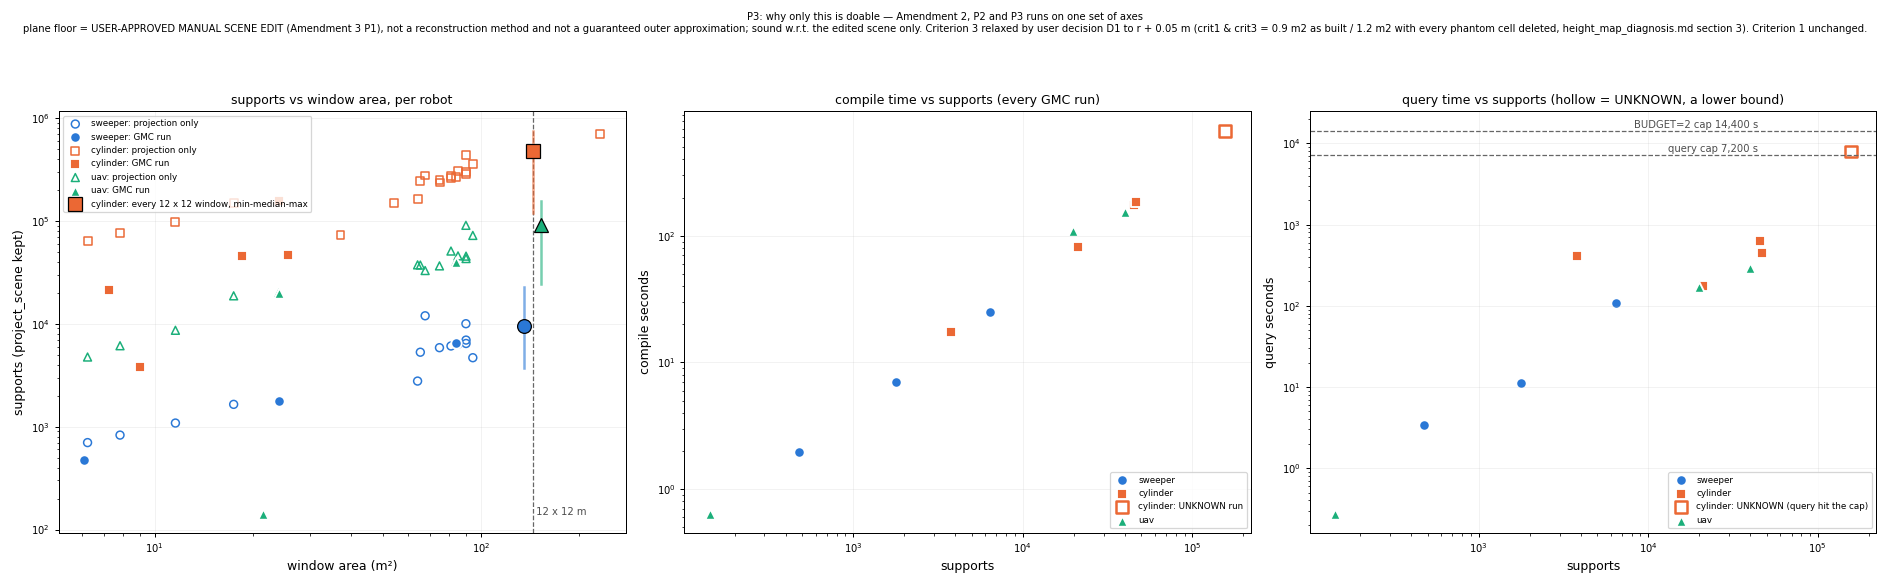
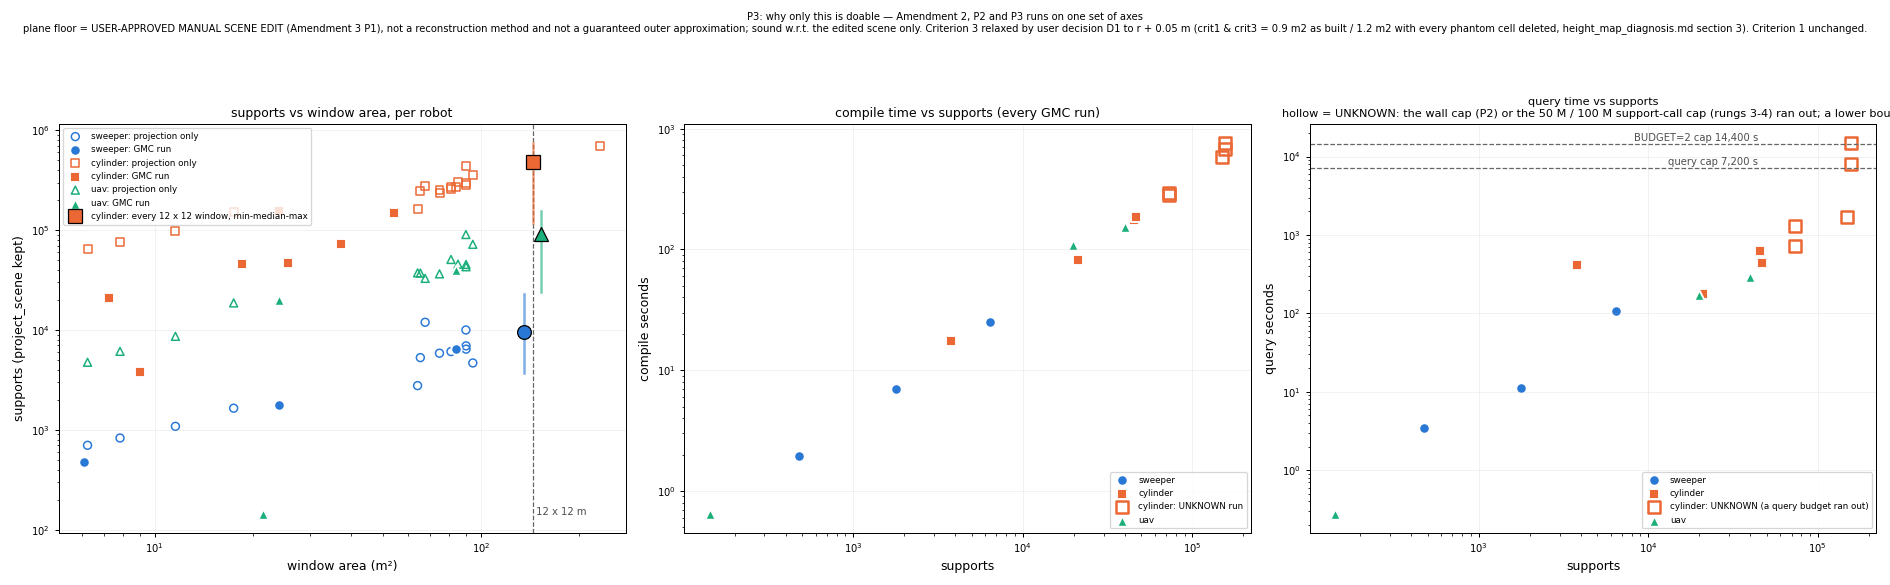
[height P3e] Why only this is doable, final for the ladder, and the short-vs-long table
Cylinder: certified to 5.45 m (46,835 supports); every map >= 73 k ran out of a query budget (support
calls at 73 k / 149 k, wall at 156 k), doubling the budget rescued neither. Compile is linear at
4.3 ms/support over 9 runs; no query fit is predictive (all 5 UNKNOWN runs contradict it). Every
12 x 12 window holds >= 119 k cylinder supports.

diff --git a/gmc/experiments/plane_long_search.py b/gmc/experiments/plane_long_search.py
@@ -681,7 +681,7 @@ def step_report(args):
             if bad:
                 ax.scatter([r["supports"] for r in bad], [r[key] for r in bad], s=90, marker=MARKERS[k],
                            facecolors="none", edgecolors=COLORS[k], lw=2,
-                           label=f"{k}: UNKNOWN (query hit the cap)" if key == "query_s" else f"{k}: UNKNOWN run")
+                           label=f"{k}: UNKNOWN (a query budget ran out)" if key == "query_s" else f"{k}: UNKNOWN run")
     for ax in axs:
         ax.set_xscale("log")
         ax.set_yscale("log")
@@ -705,7 +705,7 @@ def step_report(args):
     for cap, lbl in ((QUERY_CAP_S, "query cap 7,200 s"), (2 * QUERY_CAP_S, "BUDGET=2 cap 14,400 s")):
         axs[2].axhline(cap, color="0.4", ls="--", lw=1)
         axs[2].text(axs[2].get_xlim()[1] / 5.0, cap * 1.08, lbl, fontsize=8, color="0.3", ha="right")
-    axs[2].set_title("query time vs supports (hollow = UNKNOWN, a lower bound)", fontsize=10)
+    axs[2].set_title("query time vs supports\nhollow = UNKNOWN: the wall cap (P2) or the 50 M / 100 M support-call cap (rungs 3-4) ran out; a lower bound", fontsize=9)
     axs[0].legend(fontsize=7, loc="upper left")
     axs[1].legend(fontsize=7, loc="lower right")
     axs[2].legend(fontsize=7, loc="lower right")

diff --git a/docs/worklog/height_planefloor.md b/docs/worklog/height_planefloor.md
@@ -516,66 +516,111 @@ robots, config, `verify_curve`, `replay3d` untouched.
   queried for 409 s: supports bound the compile, not the query.
 - Submitted **rung 3** (17949914, 6.90 m, 73,178 supports, 1 CPU / 10 G / 3 h).
 
-### P3 — why only this is doable, in numbers (INTERIM, as of 15:5x: rungs 3–6 pending)
+### P3 — why only this is doable, in numbers (FINAL for the ladder; 2026-09-18 ~20:4x)
 
 Generated by `plane_long_search.py --step report` → `results/height/plane/long/p3_report.json` and
-`figs/p3_scaling.png` (opened; three log-log panels, one y-axis each). Every support count below is
-`project_scene`'s `kept`.
+`figs/p3_scaling.png`. I opened the figure: three log-log panels, one y-axis each. Hollow markers are
+UNKNOWN runs, whose time is a lower bound. Every support count is `project_scene`'s `kept`.
 
-**1. Supports vs window area, per robot.** Filled rows are GMC runs; "projection" rows were never run.
+**1. Supports vs window area, per robot.**
 
 | source | robot | window m² | supports | sup/m² |
 |---|---|---|---|---|
-| A2 | sweeper / cylinder / uav | 6.1 / 9.0 / 21.5 | 477 / 3,791 / 143 | 78 / 421 / 7 |
-| P2 shared | sweeper / cylinder / uav | 24.1 | 1,779 / **156,426** / 19,867 | 74 / **6,496** / 825 |
+| A2 (run) | sweeper / cylinder / uav | 6.1 / 9.0 / 21.5 | 477 / 3,791 / 143 | 78 / 421 / 7 |
+| P2 shared (run) | sweeper / cylinder / uav | 24.1 | 1,779 / **156,426** / 19,867 | 74 / **6,496** / 825 |
 | P2 shrink series, smallest (projection) | cylinder | 6.2 | 64,294 | 10,300 |
-| **P3 long** | sweeper / uav (cylinder: projection) | 83.9 | **6,436 / 39,834** / 269,036 | 77 / 475 / 3,205 |
-| P3 rungs 0 / 1 / 2 | cylinder | 7.2 / 18.5 / 25.6 | 21,144 / 45,572 / 46,835 | 2,917 / 2,462 / 1,828 |
-| P3 rungs 3 / 4 / 5 / 6 (projection until run) | cylinder | 37.2 / 54.2 / 75.1 / 81.1 | 73,178 / 149,303 / 235,620 / 259,588 | 1,970 / 2,755 / 3,139 / 3,200 |
-| **every 12 × 12 window below y = 32** (1,204, 0.5 m step; min / median / max) | sweeper | 144 | 3,745 / 9,444 / 22,737 | 26 / 66 / 158 |
+| **P3 long (run; cylinder projection only)** | sweeper / uav / cylinder | 83.9 | **6,436 / 39,834** / 269,036 | 77 / 475 / 3,205 |
+| P3 rungs 0 / 1 / 2 (run, certified) | cylinder | 7.2 / 18.5 / 25.6 | 21,144 / 45,572 / 46,835 | 2,917 / 2,462 / 1,828 |
+| P3 rungs 3 / 4 (run, UNKNOWN) | cylinder | 37.2 / 54.2 | 73,178 / 149,303 | 1,970 / 2,755 |
+| P3 rungs 5 / 6 (projection, not run) | cylinder | 75.1 / 81.1 | 235,620 / 259,588 | 3,139 / 3,200 |
+| **every 12 × 12 window below y = 32** (1,204 of them, 0.5 m step; min / median / max) | sweeper | 144 | 3,745 / 9,444 / 22,737 | 26 / 66 / 158 |
 | same | uav | 144 | 24,278 / 91,889 / 154,200 | 169 / 638 / 1,071 |
 | same | **cylinder** | 144 | **118,856 / 477,726 / 752,899** | 825 / 3,318 / 5,228 |
 
-The 12 × 12 row counts shadow centres on the 0.5 m density grid, so it slightly under-counts `kept`
-(the r-dilated rim is omitted). **The cheapest 12 × 12 window anywhere in the hall holds 76 % of P2's
-156 k-support map, and the median one 3×.** The prompt's "~900 k" (6,500/m² × 144) is P2's density
-applied to the whole window. Measured, the densest 12 × 12 window holds 753 k.
+The 12 × 12 row is summed from the 0.5 m density grid by shadow centre, so it under-counts `kept`
+slightly: the r-dilated rim is left out. **The cheapest 12 × 12 window in the hall holds 76 % of P2's
+156 k-support map and 1.6× rung 3's 73 k map, which is the smallest cylinder map that did not certify.**
+The median window holds 3× P2's map. The prompt's "~900 k" is P2's 6,500/m² applied to the whole window.
+Measured, the densest window holds 753 k.
 
-**2. Compile and query per run, against the 7,200 s query cap.**
+**2. Compile and query per cylinder run, against the caps.** The config allows 7,200 s of query and
+50,000,000 support calls; `BUDGET=2` doubles both.
 
-| run | robot | dist m | supports | compile s | query s | verify s | status | replay3d lb m |
+| run | sep m | supports | compile s | query s | status | which cap | MaxRSS |
+|---|---|---|---|---|---|---|---|
+| A2 | 2.69 | 3,791 | 17.3 | 409.4 | certified | — | — |
+| P3 rung 0 | 2.43 | 21,144 | 81.0 | 174.8 | certified | — | 2.24 GB |
+| P3 rung 1 | 4.00 | 45,572 | 174.7 | 628.8 | certified | — | 3.22 GB |
+| P3 rung 2 | 5.45 | 46,835 | 185.0 | 445.0 | **certified** | — | 2.30 GB |
+| P3 rung 3 | 6.90 | 73,178 | 283.9 | ≥ 722.5 | UNKNOWN | 50 M support calls | 3.37 GB |
+| P3 rung 3, `BUDGET=2` | 6.90 | 73,178 | 293.8 | ≥ 1,289.0 | UNKNOWN | 100 M support calls | 4.52 GB |
+| P3 rung 4 | 8.58 | 149,303 | 581.0 | ≥ 1,713.9 | UNKNOWN | 50 M support calls | 4.34 GB |
+| P2 shared | 2.36 | 156,426 | 675.7 | ≥ 7,968.1 | UNKNOWN | 7,200 s wall | 14.2 GB |
+| P2 shared, `BUDGET=2` | 2.36 | 156,426 | 766.4 | ≥ 15,026.8 | UNKNOWN | 14,400 s wall | (P2's job) |
+
+Sweeper and uav, same caps: the long runs used 107.5 s and 292.9 s of the 7,200 s query budget. None of
+their runs came near either cap.
+
+**3. The cylinder at 12 × 12.**
+- **Compile, fitted on 9 runs** (3,791–156,426 supports; UNKNOWN runs included, since their compile
+  finished): `t = 0.0043 · N^1.00`, i.e. linear at **4.3 ms per support**. At the 12 × 12 min / median /
+  max that is **488 s / 1,953 s / 3,074 s**. The median and max lie 3.1× and 4.8× beyond the largest
+  compiled map. Compile is not what stops the cylinder.
+- **Query: no fit is predictive, so there is no extrapolation.** The 4 finished runs (3,791–46,835
+  supports) give exponent 0.09, i.e. flat. That fit is contradicted by **all five** UNKNOWN runs: it
+  under-predicts rung 3 by ≥ 1.7× (≥ 3.0× at `BUDGET=2`), rung 4 by ≥ 3.8×, and P2 by ≥ 17.6× (≥ 33× at
+  `BUDGET=2`). What the runs do show:
+  - Every cylinder map ≤ 47 k supports certified.
+  - Every map ≥ 73 k ran out of a query budget: the support-call cap at 73 k and 149 k, the wall cap at
+    156 k.
+  - Doubling the budget did not rescue either run it was tried on.
+  - Every 12 × 12 window holds ≥ 119 k.
+
+  Supports alone don't set the query cost: rungs 1 and 2 are the same size and differ by 1.4× in query
+  time. They mark only where the budget stops binding: somewhere between 47 k and 73 k on this route.
+- **The probe** (`showcase_run.py`, linear in supports × intervals), actual over projected:
+  - A2 cylinder **21×**
+  - P2 cylinder **≥ 13×**, and **≥ 20×** on its retry
+  - rungs 0–2: 1.7× / 4.6× / 3.4×
+  - rungs 3, 3-b2, 4: ≥ 3.6× / ≥ 5.5× / ≥ 1.4×
+  - long sweeper 3.6×, long uav 2.0×
+
+  It never over-estimated a cylinder run.
+
+**4. What (b) would change.** Option (b) runs all three robots at ≥ 8 m via the Amendment 1 grid
+coreset. That shrinks the cylinder's map itself, which is the quantity everything above says is the
+binding one, where option (a) could only shrink the window. **It was not run** (D4: the user asked for
+(a) first). It is the next step.
+
+**Short range vs long range.**
+
+| case | robot | A–B m | window m | supports | compile s | query s | replay3d lb m | result |
 |---|---|---|---|---|---|---|---|---|
-| A2 | sweeper | 2.02 | 477 | 2.0 | 3.4 | — | REACHABLE | 0.0268 |
-| A2 | cylinder | 2.69 | 3,791 | 17.3 | 409.4 | — | REACHABLE | 0.0032 |
-| A2 | uav | 4.15 | 143 | 0.6 | 0.3 | — | REACHABLE | 0.05 |
-| P2 | sweeper | 2.36 | 1,779 | 7.0 | 11.3 | 5.6 | REACHABLE | 0.0059 |
-| P2 | uav | 2.36 | 19,867 | 108.5 | 171.9 | 84.8 | REACHABLE | 0.0127 |
-| P2 | cylinder | 2.36 | 156,426 | 675.7 | **7,968 ≥ cap** | — | **UNKNOWN** | — |
-| **P3 long** | **sweeper** | **11.24** | 6,436 | 25.0 | 107.5 | 52.3 | **REACHABLE** | 0.00015 |
-| **P3 long** | **uav** | **11.24** | 39,834 | 153.4 | 292.9 | 145.5 | **REACHABLE** | 0.0177 |
-| P3 rung 0 | cylinder | 2.43 | 21,144 | 81.0 | 174.8 | 85.2 | REACHABLE | 0.0014 |
-| P3 rung 1 | cylinder | 4.00 | 45,572 | 174.7 | 628.8 | 312.1 | REACHABLE | 0.0014 |
-| P3 rung 2 | cylinder | 5.45 | 46,835 | 185.0 | 445.0 | 219.8 | REACHABLE | 0.0013 |
+| A2 | sweeper | 2.02 | 2.00 × 3.05 | 477 | 2.0 | 3.4 | 0.0268 | certified |
+| A2 | cylinder | 2.69 | 3.00 × 3.00 | 3,791 | 17.3 | 409.4 | 0.0032 | certified |
+| A2 | uav | 4.15 | 5.90 × 3.65 | 143 | 0.6 | 0.3 | 0.0500 | certified |
+| P2 shared | sweeper | 2.36 | 4.30 × 5.60 | 1,779 | 7.0 | 11.3 | 0.0059 | certified |
+| P2 shared | uav | 2.36 | 4.30 × 5.60 | 19,867 | 108.5 | 171.9 | 0.0127 | certified |
+| P2 shared | cylinder | 2.36 | 4.30 × 5.60 | 156,426 | 675.7 | ≥ 15,027 | — | UNKNOWN (wall, ×2) |
+| **P3 long** | **sweeper** | **11.24** | 7.70 × 10.90 | 6,436 | 25.0 | 107.5 | **0.00015** | **certified** |
+| **P3 long** | **uav** | **11.24** | 7.70 × 10.90 | 39,834 | 153.4 | 292.9 | 0.0177 | **certified** |
+| P3 rung 0 | cylinder | 2.43 | 2.00 × 3.62 | 21,144 | 81.0 | 174.8 | 0.0014 | certified |
+| P3 rung 1 | cylinder | 4.00 | 3.61 × 5.12 | 45,572 | 174.7 | 628.8 | 0.0014 | certified |
+| **P3 rung 2** | **cylinder** | **5.45** | 4.36 × 5.87 | 46,835 | 185.0 | 445.0 | 0.0013 | **certified (largest)** |
+| P3 rung 3 | cylinder | 6.90 | 6.33 × 5.87 | 73,178 | 293.8 | ≥ 1,289 | — | UNKNOWN (support calls, ×2) |
+| P3 rung 4 | cylinder | 8.58 | 5.88 × 9.22 | 149,303 | 581.0 | ≥ 1,714 | — | UNKNOWN (support calls) |
 
-**3. The cylinder at 12 × 12: what can and cannot be extrapolated.**
-- **Compile, fitted on 5 points** (3,791–156,426 supports): `t = 0.0051 · N^0.98`, i.e. linear at
-  ~5 ms per support. At the 12 × 12 min / median / max (119 k / 478 k / 753 k) that is **472 s /
-  1,844 s / 2,879 s**. The median and max are 3.1× and 4.8× beyond the largest compiled map.
-- **Query, fitted on the 4 finished points** (3,791–46,835 supports): exponent **0.09**, i.e. flat: 409 s
-  at 3.8 k, 175 s at 21 k, 629 s at 46 k, 445 s at 47 k. **This fit is not predictive and I do not use
-  it.** At 156 k it predicts 454 s; P2 measured > 7,968 s there, **under by at least 17.6×**. Query time
-  is set by the route's tightest passages and the refinement they force, not by the support count. The
-  only query measured above 47 k supports ran past the cap. So there is **no query extrapolation to
-  12 × 12**: every 12 × 12 window holds more supports than that failed map, and nothing measured says
-  such a query would finish. Rungs 3–6 (73 k–260 k) fill in the missing range.
-- **The probe** (`showcase_run.py`, linear in supports × intervals), actual/projected: A2 cylinder
-  **21×**, P2 cylinder **≥ 13×** (a lower bound: that run never finished), rungs 0/1/2 **1.7× / 4.6× /
-  3.4×**, P3 long sweeper 3.6×, uav 2.0×. It is never an over-estimate for the cylinder, and its error
-  is largest exactly where the query is slowest.
-
-**4. Option (b)**: all three robots at ≥ 8 m via the Amendment 1 grid coreset would shrink the
-cylinder's map itself, so the 12 × 12 support count is no longer the obstacle. **It was not run** (D4:
-the user asked for (a) first). It is the next step.
+**Reading it.**
+- **Does GMC still work at longer range?** For the sweeper and the uav, yes, and cheaply. From
+  2.0–4.1 m (A2) and 2.36 m (P2) to 11.24 m, compile and query stay under 5 minutes each, and both
+  routes are certified and replayed in 3D.
+- **The clearance lower bound holds but shrinks** for the sweeper: 0.027 → 0.0059 → 0.00015 m. That
+  follows from GMC certifying *a* route, not a max-clearance one: a longer route has more chances to
+  pass close to something. For the uav it did not shrink (0.0127 → 0.0177 m).
+- **Where it stops.** For the cylinder, the same start supports a certified route out to 5.45 m, in a
+  25.6 m² window, and no further: the next map, at 73 k supports, exhausts the query budget twice. The
+  sweeper/uav case shows range alone is not the limit. The cylinder's limit is its map's support count
+  and the query effort that count forces, and a 12 × 12 cylinder window holds 119 k–753 k supports.
 
 ### 2026-09-18 ~20:0x — rungs 3 and 4: UNKNOWN on the support-call budget, not the wall clock
 
